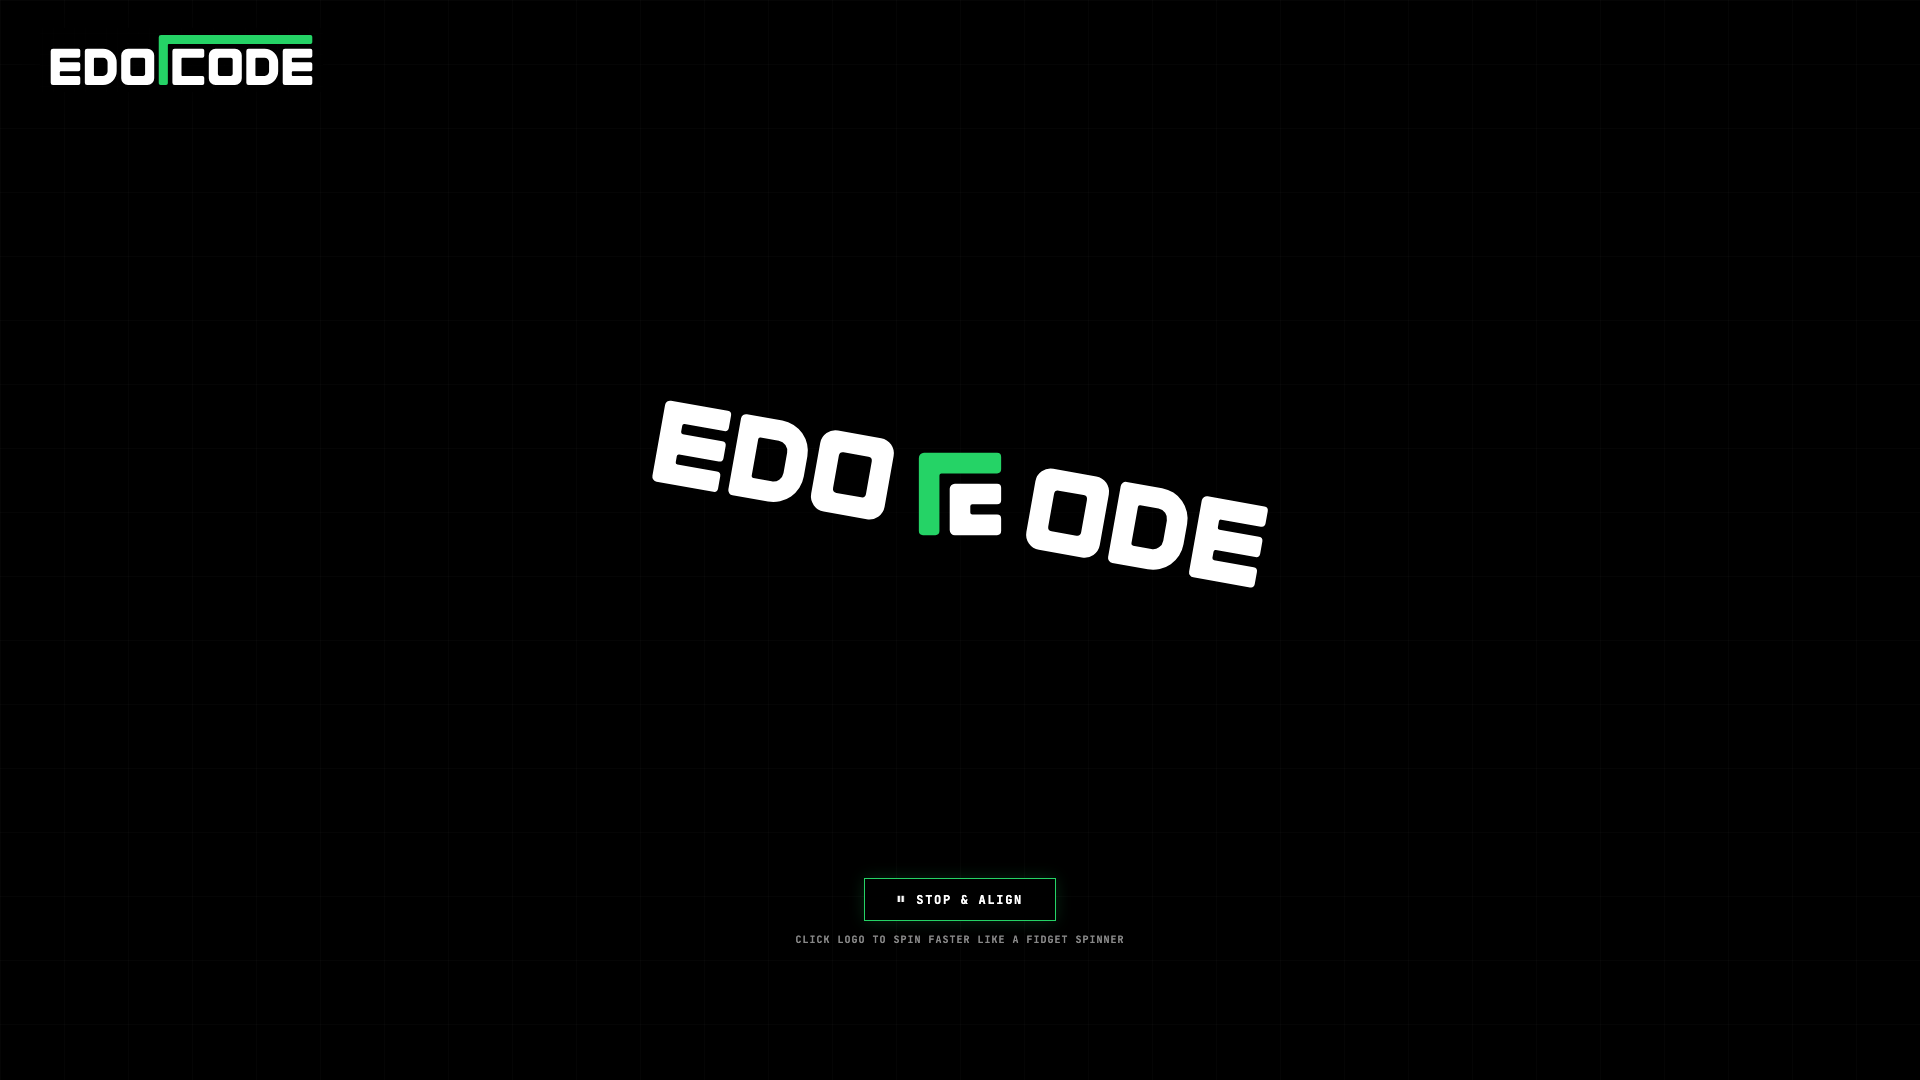
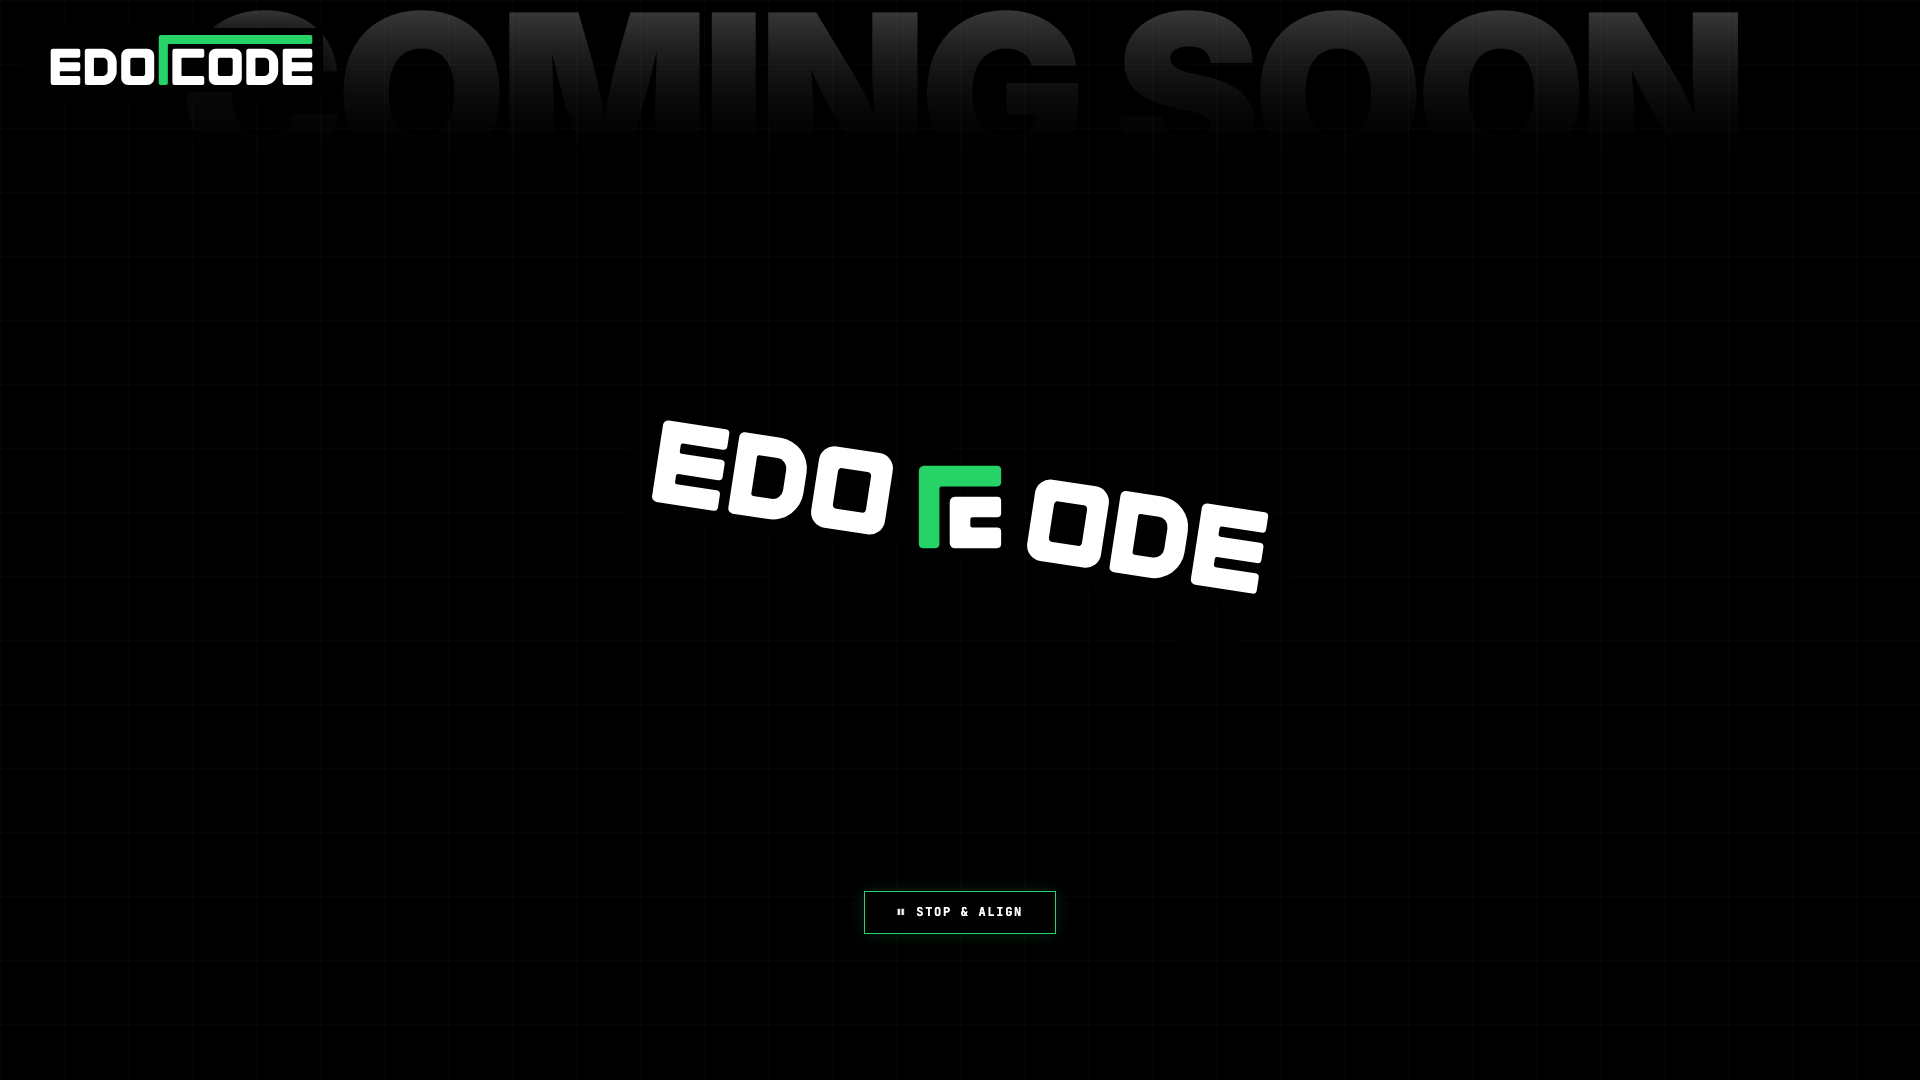
feat: add big faded COMING SOON with top reverse fade in background and remove text below stop button

diff --git a/index.html b/index.html
@@ -147,7 +147,6 @@
       display: flex;
       flex-direction: column;
       align-items: center;
-      gap: 12px;
     }
 
     .btn-rect {
@@ -191,13 +190,35 @@
       box-shadow: 0 0 25px rgba(255, 255, 255, 0.5);
     }
 
-    .hint-label {
-      font-family: 'JetBrains Mono', monospace;
-      font-size: 10px;
-      color: var(--gray-400);
-      letter-spacing: 0.1em;
+    /* Big Faded Web-Responsive "COMING SOON" Background Text (Reverse Fade) */
+    .bg-coming-soon {
+      position: absolute;
+      top: 0px;
+      left: 50%;
+      transform: translateX(-50%);
+      width: 100%;
+      text-align: center;
+      font-family: 'Inter', -apple-system, BlinkMacSystemFont, sans-serif;
+      font-weight: 900;
+      font-size: clamp(34px, 11.2vw, 220px);
+      letter-spacing: -0.035em;
+      line-height: 0.85;
       text-transform: uppercase;
-      transition: color 0.2s ease;
+      white-space: nowrap;
+      pointer-events: none;
+      z-index: 2;
+      user-select: none;
+      color: rgba(255, 255, 255, 0.22);
+      background: linear-gradient(180deg, 
+        rgba(255, 255, 255, 0.25) 0%, 
+        rgba(255, 255, 255, 0.12) 35%, 
+        rgba(255, 255, 255, 0.02) 75%, 
+        transparent 96%
+      );
+      -webkit-background-clip: text;
+      -webkit-text-fill-color: transparent;
+      mask-image: linear-gradient(to bottom, rgba(0, 0, 0, 1) 0%, rgba(0, 0, 0, 0.65) 45%, rgba(0, 0, 0, 0) 95%);
+      -webkit-mask-image: linear-gradient(to bottom, rgba(0, 0, 0, 1) 0%, rgba(0, 0, 0, 0.65) 45%, rgba(0, 0, 0, 0) 95%);
     }
 
     /* Floating Interactive Cursor Pill */
@@ -277,6 +298,9 @@
   <!-- Ambient Grid & Particles -->
   <div class="bg-grid"></div>
   <canvas id="particles-canvas"></canvas>
+
+  <!-- Big Faded Web-Responsive "COMING SOON" Background Text (Reverse Fade) -->
+  <div class="bg-coming-soon" aria-hidden="true">COMING SOON</div>
 
   <!-- Top Brand Bar: Logo in top-left, top-right completely empty -->
   <header>
@@ -398,7 +422,6 @@
         <span id="btn-icon">⏸</span>
         <span id="btn-text">STOP &amp; ALIGN</span>
       </button>
-      <span class="hint-label" id="hint-text">CLICK LOGO TO SPIN FASTER LIKE A FIDGET SPINNER</span>
     </div>
   </main>
 
@@ -433,7 +456,6 @@
     const btnToggle = document.getElementById('btn-toggle-spin');
     const btnIcon = document.getElementById('btn-icon');
     const btnText = document.getElementById('btn-text');
-    const hintText = document.getElementById('hint-text');
     const cursorPill = document.getElementById('cursor-pill');
     const cursorText = document.getElementById('cursor-text');
 
@@ -588,7 +610,6 @@
       btnToggle.classList.add('stopped');
       btnIcon.textContent = '▶';
       btnText.textContent = 'START SPINNER';
-      hintText.textContent = 'STOPPED & ALIGNED: EDO [LOGO] ODE';
     }
 
     function startSpinning() {
@@ -600,7 +621,6 @@
       btnToggle.classList.remove('stopped');
       btnIcon.textContent = '⏸';
       btnText.textContent = 'STOP & ALIGN';
-      hintText.textContent = 'CLICK LOGO TO SPIN FASTER LIKE A FIDGET SPINNER';
     }
 
     btnToggle.addEventListener('click', () => {
